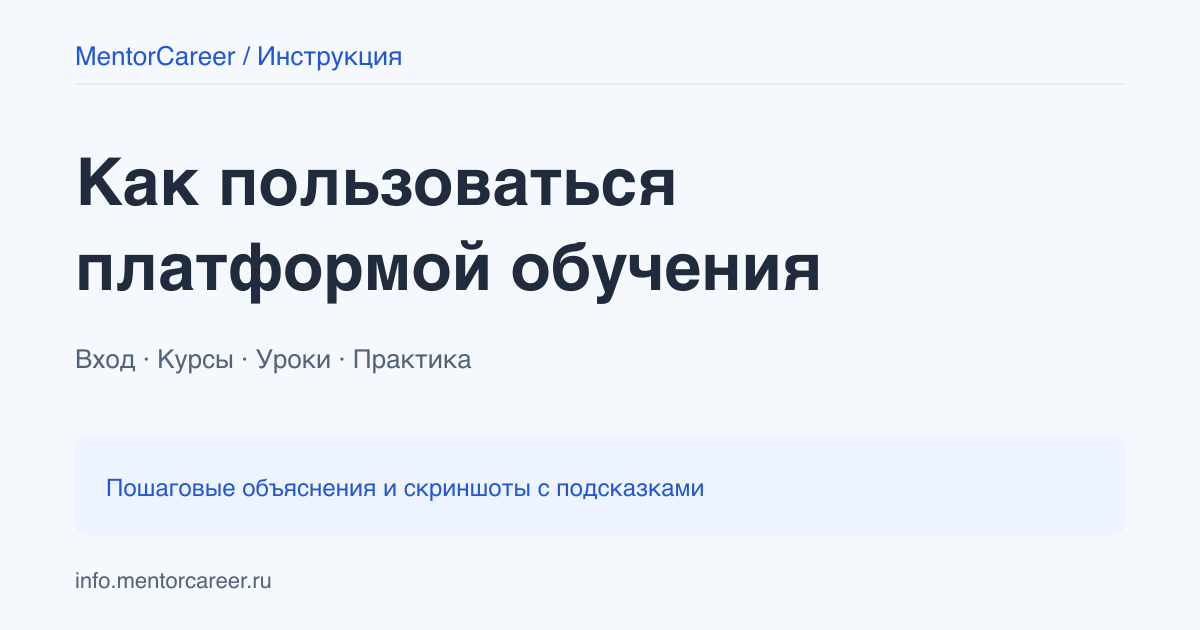
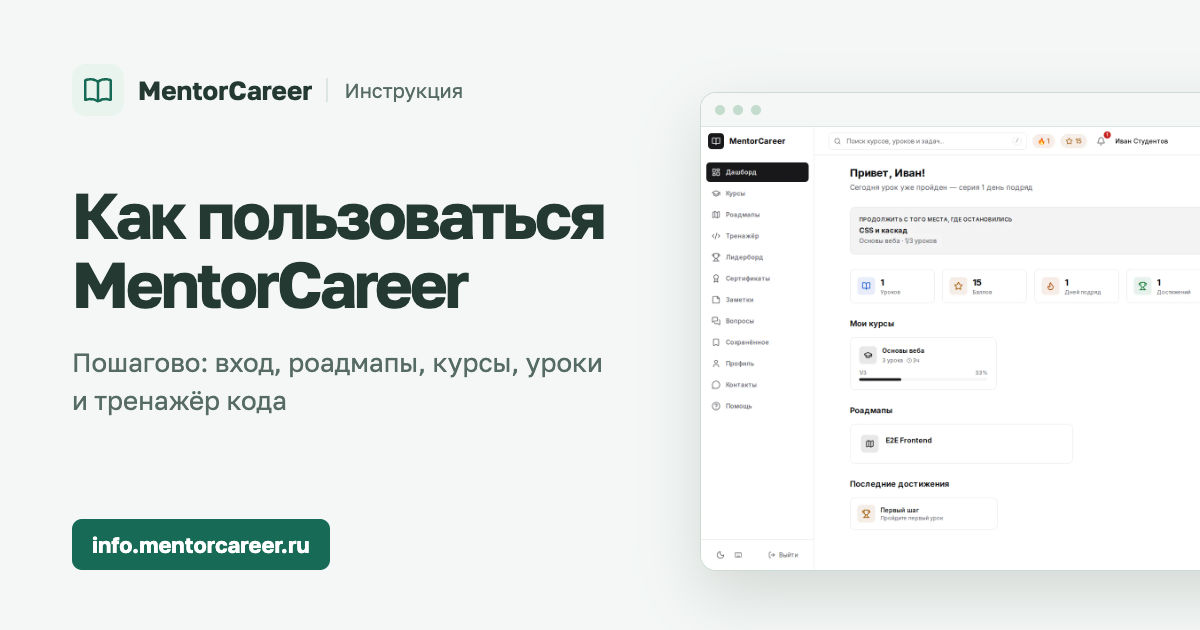
feat(landing): склеивает дубли адресов и ускоряет первый экран инструкции
- /index.html и //… отвечают 301 на чистый адрес (nginx и тестовый сервер),
  robots.txt получил Clean-param для utm-меток, HTML отдаётся с no-cache.
- Стили встроены в HTML, основные шрифты предзагружаются, скрытое на
  телефоне превью не скачивается: на мобильном FCP 2,3 → 1,8 с, LCP 2,6 → 2,2 с.
- Шаги стали заголовками h3 под разделами, title и description говорят
  «инструкция для учеников», JSON-LD описывает организацию, дату и картинку.
- Картинка превью ссылок перерисована в цветах и шрифте лендинга.

diff --git a/tests/e2e/content/landing-seo.spec.ts b/tests/e2e/content/landing-seo.spec.ts
@@ -1,6 +1,6 @@
 import { expect, test } from '@playwright/test'
 
-import { LANDING_USE } from '../fixtures/env'
+import { LANDING_URL, LANDING_USE } from '../fixtures/env'
 
 /**
  * Лендинг (landing/, Astro): мета-теги, canonical, Open Graph, JSON-LD,
@@ -26,6 +26,27 @@ test('title, description, canonical, robots и язык страницы', async
   await expect(page.locator('meta[name="robots"]')).toHaveAttribute('content', /index, follow/)
   await expect(page.locator('meta[name="viewport"]')).toHaveAttribute('content', /width=device-width/)
   await expect(page.locator('h1')).toHaveCount(1)
+  // Стили встроены в HTML: отдельный файл задерживал первый экран лишним запросом.
+  await expect(page.locator('link[rel="stylesheet"]')).toHaveCount(0)
+})
+
+test('шаги разделов — заголовки h3 под заголовком раздела', async ({ page }) => {
+  await page.goto('/')
+  const trainer = page.locator('#trainer')
+  await expect(trainer.locator('h2')).toHaveText('Напишите код, проверьте и отправьте решение')
+  // Номер шага отделён пробелом: «1Прочитайте» поисковик прочитал бы одним словом.
+  await expect(trainer.getByRole('heading', { level: 3 })).toHaveText(['1 Прочитайте условие и тесты', '2 Проверьте код: «Запустить»', '3 Получите зачёт: «Отправить»'])
+  expect(await page.locator('.chapter h3').count()).toBe(await page.locator('[data-step]').count())
+})
+
+test('дубли главной отвечают 301 на /', async ({ request }) => {
+  // Полный адрес: «//» без него читается как ссылка без протокола.
+  const origin = new URL(LANDING_URL).origin
+  for (const [path, location] of [['/index.html', '/'], ['/index.html?utm_source=tg', '/?utm_source=tg'], ['//', '/']]) {
+    const response = await request.get(`${origin}${path}`, { maxRedirects: 0 })
+    expect(response.status(), path).toBe(301)
+    expect(response.headers()['location'], path).toBe(location)
+  }
 })
 
 test('Open Graph и Twitter Card заполнены и указывают на существующую картинку', async ({ page, request }) => {
@@ -54,7 +75,10 @@ test('JSON-LD описывает инструкцию и FAQ совпадает 
     return data['@graph'] ?? [data]
   })
   const types = graph.map((node) => node['@type'])
-  expect(types).toEqual(expect.arrayContaining(['WebSite', 'WebPage', 'FAQPage']))
+  expect(types).toEqual(expect.arrayContaining(['Organization', 'WebSite', 'WebPage', 'ImageObject', 'FAQPage']))
+  const webPage = graph.find((node) => node['@type'] === 'WebPage') as { dateModified: string; primaryImageOfPage: { '@id': string } }
+  expect(Number.isNaN(Date.parse(webPage.dateModified))).toBe(false)
+  expect(webPage.primaryImageOfPage['@id']).toBe(`${SITE}/#primaryimage`)
   expect(types).not.toContain('Person')
   expect(types).not.toContain('Course')
   for (const node of graph) {
@@ -81,6 +105,8 @@ test('robots.txt разрешает индексацию и указывает s
   expect(text).toMatch(/User-agent: \*/)
   expect(text).not.toMatch(/Disallow: \/\s*$/m)
   expect(text).toContain(`Sitemap: ${SITE}/sitemap.xml`)
+  // Метки рассылок и рекламы не должны плодить дубли в Яндексе.
+  expect(text).toMatch(/^Clean-param: utm_source&[^\n]*utm_campaign[^\n]* \/$/m)
 })
 
 test('sitemap.xml — валидный XML с главной и свежим lastmod', async ({ request, page }) => {

diff --git a/landing/src/styles/global.css b/landing/src/styles/global.css
@@ -134,6 +134,8 @@ main { min-width: 0; padding: 0 clamp(28px, 4vw, 64px); background: var(--white)
 .screen-steps li+li { border-left: 1px solid var(--line); }
 .screen-steps li[data-active="true"] { background: var(--pale); }
 .screen-steps li[data-active="true"]::before { content: ''; position: absolute; top: 0; left: 0; right: 0; height: 3px; background: var(--accent); }
+/* Заголовок шага нужен для структуры страницы, вид задаёт кнопка внутри. */
+.screen-steps h3 { font-size: inherit; line-height: inherit; }
 .screen-steps button { display: flex; gap: 10px; align-items: flex-start; width: 100%; border: none; background: none; text-align: left; padding: 0; font-size: 14px; line-height: 1.5; color: var(--ink); font-weight: 700; }
 .step-number { display: inline-grid; place-items: center; width: 24px; height: 24px; flex-shrink: 0; border-radius: 50%; border: 1px solid #acc5b6; font-size: 11px; background: white; color: var(--accent); }
 .screen-steps p { font-size: 14px; color: var(--muted); line-height: 1.7; margin-top: 12px; }

diff --git a/docs/platform-guide.md b/docs/platform-guide.md
@@ -11,8 +11,8 @@ JSON-LD, llms.txt и картинки Open Graph.
 
 - `landing/src/data/guide.ts`: десять разделов, инструкции и координаты меток.
 - `landing/src/data/faq.ts`: общий источник видимого FAQ и JSON-LD.
-- `landing/src/components/GuideScreen.astro`: скриншот и доступные кнопки шагов.
-- `landing/src/scripts/guide.ts`: выбор и показ шагов, увеличение скриншотов,
+- `landing/src/components/GuideScreen.astro`: скриншот, заголовки `h3` и кнопки шагов.
+- `landing/src/scripts/guide.ts`: выбор шагов, показ с приближением к метке, увеличение скриншотов,
   оглавление с поиском и закреплённой мобильной навигацией, локальный
   чек-лист. Чек-лист не меняет учебный прогресс LMS.
 - `landing/public/guide/`: 13 WebP-скриншотов настоящего интерфейса.
@@ -31,6 +31,18 @@ JSON-LD, llms.txt и картинки Open Graph.
 screens.json и координаты меток. Инструкция отражает реальные условия:
 аккаунт выдаёт администратор; просмотр видео не завершает урок;
 в тренажёре зачёт даёт успешная отправка на сервер.
+
+## Поиск и превью ссылок
+
+- Title, description, canonical, Open Graph и JSON-LD — `landing/src/layouts/Layout.astro`;
+  sitemap — `landing/src/pages/sitemap.xml.ts`. Стили встроены в HTML (`inlineStylesheets`).
+- Дубли главной (`/index.html`, `//…`) отвечают 301 в `landing/nginx.conf`;
+  `scripts/landing-server.mjs` повторяет это для тестов. Ссылки с `utm_*` Яндекс
+  склеивает по `Clean-param` из `robots.txt`, Google — по canonical.
+- HTML отдаётся с `Cache-Control: no-cache`, чтобы после выката не показывалась старая версия.
+- `og.png` 1200×630 нарисована HTML-шаблоном со шрифтом Golos Text и снимком
+  `guide/dashboard.webp`, без личных упоминаний. Telegram кеширует превью ссылки,
+  обновить его можно через @WebpageBot.
 
 ## Домены
 
